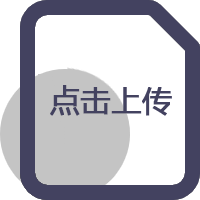
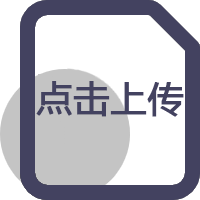
更改上传效果

Changed region(s): [[0.18, 0.39, 0.93, 0.6]]

diff --git a/assets/js/audio.js b/assets/js/audio.js
@@ -40,14 +40,20 @@ function sendToUser(){ //在这里进行ajax 文件上传 用户的信息
         data : formData,
         processData : false,
         contentType : false,
+        beforeSend: function () {
+            $("#img_click_trans").attr("src", "../../img/pic.gif");
+        },
+        complete: function () {
+            $("#img_click_trans").attr("src", "../../img/clicktrans1.png");
+        },
         success : function(data){
             var url = data.data;
             console.log(data);
-            alert("文件上传成功!");
             $("#a_audio_download").attr("href", data.data);
             var index = url.lastIndexOf("/");
             var filename = url.substring(index+1);//文件名
             $("#text_filename_back").text(filename);
+            $("#img_click_trans").attr("src", "../../img/clicktrans1.png");
         }
     });
 }
@@ -77,14 +83,20 @@ function audioASR() {
         data : formData,
         processData : false,
         contentType : false,
+        beforeSend: function () {
+            $("#img_click_trans").attr("src", "../../img/pic.gif");
+        },
+        complete: function () {
+            $("#img_click_trans").attr("src", "../../img/clicktrans1.png");
+        },
         success : function(data){
             var url = data.data;
             console.log(data);
-            alert("文件上传成功!");
             $("#a_audio_download").attr("href", data.data);
             var index = url.lastIndexOf("/");
             var filename = url.substring(index+1);//文件名
             $("#text_filename_back").text(filename);
+            $("#img_click_trans").attr("src", "../../img/clicktrans1.png");
         }
     });
 }
@@ -106,6 +118,7 @@ function changeFileImg(){
             break;
     };
     $("#text_filename").text(filename);
+    $("#img_click_trans").attr("src", "../../img/clicktrans.png");
 }
 
 

diff --git a/html/document/converse.html b/html/document/converse.html
@@ -122,7 +122,10 @@
                     </div>
                 </div>
                 <div id="div_doc_arrow">
-                    <img src="../../img/long-arrow-right.png" style="width: 100%;height: 100px" onclick="sendToUserDocument()">
+                    <img id="img_click_trans" src="../../img/clicktrans.png" style="width: 100%;height: 75px;margin-top: 10px" onclick="sendToUserDocument()">
+                </div>
+                <div id="loading">
+
                 </div>
             </div>
             <div id="div_doc_back">

diff --git a/html/audio/converse.html b/html/audio/converse.html
@@ -118,7 +118,7 @@
                     </div>
                 </div>
                 <div id="div_doc_arrow">
-                    <img src="../../img/long-arrow-right.png" style="width: 100%;height: 100px" onclick="sendToUser()">
+                    <img id="img_click_trans" src="../../img/clicktrans.png" style="width: 100%;height: 75px;margin-top: 10px" onclick="sendToUser()">
                 </div>
             </div>
             <div id="div_audio_back">

diff --git a/html/audio/ASR.html b/html/audio/ASR.html
@@ -109,7 +109,7 @@
 
             <div id="div_audio_control">
                 <div id="div_doc_arrow">
-                    <img src="../../img/long-arrow-right.png" style="width: 100%;height: 100px" onclick="audioASR()">
+                    <img id="img_click_trans" src="../../img/clicktrans.png" style="width: 100%;height: 75px;margin-top: 50px" onclick="audioASR()">
                 </div>
             </div>
             <div id="div_audio_back">

diff --git a/assets/css/document-ui.css b/assets/css/document-ui.css
@@ -8,6 +8,7 @@
 
 }
 #dic_doc_control{
+    margin-top: 50px;
     float: left;
     width: 30%;
     height: 250px;
